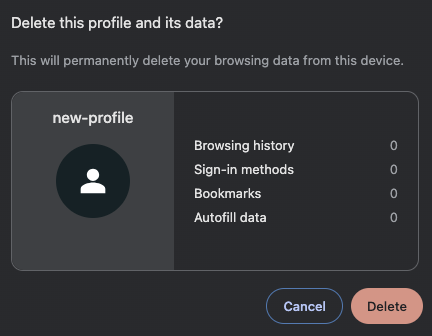
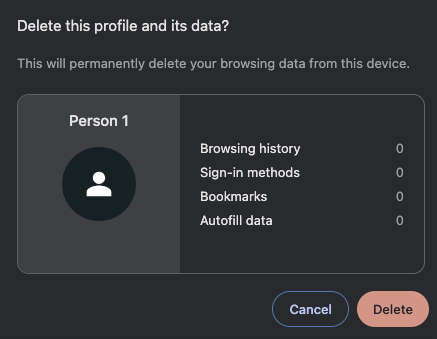
Updated Screenshots and Text Formatting

diff --git a/content/handbook/security/corporate/systems/google/chrome/_index.md b/content/handbook/security/corporate/systems/google/chrome/_index.md
@@ -1,5 +1,5 @@
 ---
-title: "Duplicate Chrome Profile Created"
+title: "Google Chrome"
 ---
 
 ## Duplicate Chrome Profile Created
@@ -13,11 +13,11 @@ This guide to help team members who had an extra Google Chrome profile created a
 ### Deleting the newly created profile 
 
 1. Open Chrome.
-2. Click your profile picture in the top-right corner in Chrome → `Manage Chrome Profiles`.
-3. Assuming that you did not add a personal profile to Chrome, you should see two profiles; one likely labeled `Person 1` and the other `gitlab.com`.
+2. Click your profile picture in the top-right corner in Chrome → **Manage Chrome Profiles**.
+3. Assuming that you did not add a personal profile to Chrome, you should see two profiles; one likely labeled **Person 1** and the other **gitlab.com**.
     ![image](/images/security/corporate/systems/google/chrome/image-1.png)
-4. `Person 1` is your original pofile and will contain your bookmarks, history, biometrics, etc.
-5. `gitlab.com` should then be the new profile.
+4. **Person 1** is your original pofile and will contain your bookmarks, history, biometrics, etc.
+5. **gitlab.com** should then be the new profile.
 6. To confirm which Chrome profile is the correct one to delete, click on the three dots next to the profile name and select "Delete" and then verify the number of bookmarks ,etc. 
 7. The correct profile to delete will have **fewer** bookmarks, Auto-fill Data, etc
         ![image](/images/security/corporate/systems/google/chrome/image-2.png)
@@ -25,9 +25,9 @@ This guide to help team members who had an extra Google Chrome profile created a
 
 ### Loading the correct profile
 
-1. Open the old profile that has all your bookmarks/browsing history, etc. Based on the example above it would be `Person 1`. 
-2. When you get the `Your organization requires a profile` pop-up, check off the `Add existing browsing data to managed profile` box.
+1. Open the old profile that has all your bookmarks/browsing history, etc. Based on the example above it would be **Person 1**. 
+2. When you get the **Your organization requires a profile** pop-up, check off the **Add existing browsing data to managed profile** box.
     ![image](/images/security/corporate/systems/google/chrome/image-4.png)
-3. When prompted to `Turn on Sync`, click `Yes, I'm in`. This will back up your bookmarks, browsing history, etc. into your work Google account.
+3. When prompted to **Turn on Sync**, click **Yes, I'm in**. This will back up your bookmarks, browsing history, etc. into your work Google account.
     ![image](/images/security/corporate/systems/google/chrome/image-5.png)
 4. Your bookmarks, browsing history, etc. should now be restored.
